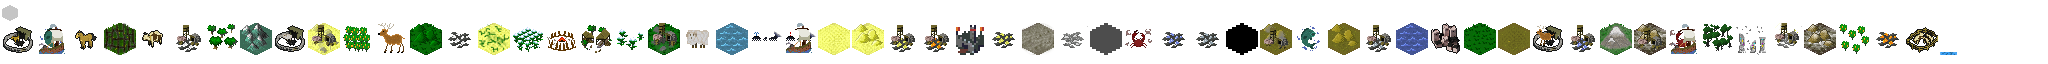
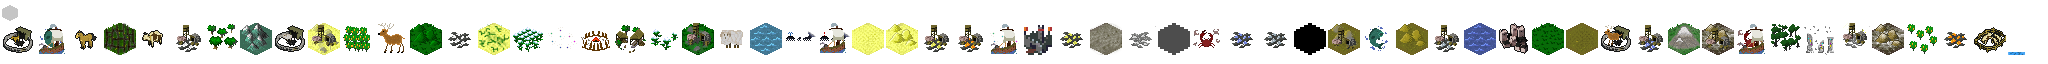
GameMap: Implement pearls tile

Changed region(s): [[0.25, 0.3438, 1.0, 0.875]]

diff --git a/server/src/main/java/me/rhin/openciv/server/game/map/tile/TileType.java b/server/src/main/java/me/rhin/openciv/server/game/map/tile/TileType.java
@@ -474,6 +474,25 @@ public enum TileType implements Comparable<TileType> {
 			return new TileType[] { TileType.SHALLOW_OCEAN };
 		}
 	},
+	PEARLS(TileLayer.MIDDLE, TileProperty.LUXURY, TileProperty.WATER) {
+		@Override
+		public StatLine getStatLine() {
+			StatLine statLine = new StatLine();
+			statLine.setValue(Stat.FOOD_GAIN, 1);
+			statLine.setValue(Stat.GOLD_GAIN, 2);
+			return statLine;
+		}
+
+		@Override
+		public List<TileImprovement> getImprovements() {
+			return Arrays.asList(new FarmOceanImprovement(TileType.PEARLS_IMPROVED));
+		}
+
+		@Override
+		public TileType[] getSpawnTileTypes() {
+			return new TileType[] { TileType.SHALLOW_OCEAN };
+		}
+	},
 	SILVER(TileLayer.MIDDLE, TileProperty.LUXURY) {
 		@Override
 		public StatLine getStatLine() {
@@ -567,6 +586,17 @@ public enum TileType implements Comparable<TileType> {
 		public StatLine getStatLine() {
 			StatLine statLine = new StatLine();
 			statLine.addValue(Stat.FOOD_GAIN, 2);
+			statLine.addValue(Stat.PRODUCTION_GAIN, 1);
+			statLine.addValue(Stat.MORALE_TILE, 10);
+			return statLine;
+		}
+	},
+	PEARLS_IMPROVED(TileLayer.MIDDLE, TileProperty.IMPROVEMENT, TileProperty.WATER) {
+		@Override
+		public StatLine getStatLine() {
+			StatLine statLine = new StatLine();
+			statLine.addValue(Stat.FOOD_GAIN, 1);
+			statLine.addValue(Stat.GOLD_GAIN, 3);
 			statLine.addValue(Stat.PRODUCTION_GAIN, 1);
 			statLine.addValue(Stat.MORALE_TILE, 10);
 			return statLine;

diff --git a/core/src/main/java/me/rhin/openciv/game/map/tile/TileType.java b/core/src/main/java/me/rhin/openciv/game/map/tile/TileType.java
@@ -39,6 +39,8 @@ public enum TileType {
 			TileProperty.OCEAN_FARMABLE),
 	WHALES(TextureEnum.TILE_WHALES, TileLayer.MIDDLE, TileProperty.RESOURCE, TileProperty.WATER,
 			TileProperty.OCEAN_FARMABLE),
+	PEARLS(TextureEnum.TILE_PEARLS, TileLayer.MIDDLE, TileProperty.RESOURCE, TileProperty.WATER,
+			TileProperty.OCEAN_FARMABLE),
 	SILVER(TextureEnum.TILE_SILVER, TileLayer.MIDDLE, TileProperty.RESOURCE, TileProperty.MINEABLE),
 	GOLD(TextureEnum.TILE_GOLD, TileLayer.MIDDLE, TileProperty.RESOURCE, TileProperty.MINEABLE),
 	FARM(TextureEnum.TILE_FARM, TileLayer.LOW, SoundEnum.FARM_TILL, TileProperty.IMPROVEMENT),
@@ -47,6 +49,7 @@ public enum TileType {
 	FISH_IMPROVED(TextureEnum.TILE_FISH_IMPROVED, TileLayer.MIDDLE, TileProperty.IMPROVEMENT, TileProperty.WATER),
 	CRABS_IMPROVED(TextureEnum.TILE_CRABS_IMPROVED, TileLayer.MIDDLE, TileProperty.IMPROVEMENT, TileProperty.WATER),
 	WHALES_IMPROVED(TextureEnum.TILE_WHALES_IMPROVED, TileLayer.MIDDLE, TileProperty.IMPROVEMENT, TileProperty.WATER),
+	PEARLS_IMPROVED(TextureEnum.TILE_PEARLS_IMPROVED, TileLayer.MIDDLE, TileProperty.IMPROVEMENT, TileProperty.WATER),
 	SILVER_IMPROVED(TextureEnum.TILE_SILVER_IMPROVED, TileLayer.MIDDLE, TileProperty.IMPROVEMENT),
 	GOLD_IMPROVED(TextureEnum.TILE_GOLD_IMPROVED, TileLayer.MIDDLE, TileProperty.IMPROVEMENT),
 	COTTON_IMPROVED(TextureEnum.TILE_COTTON_IMPROVED, TileLayer.MIDDLE, TileProperty.IMPROVEMENT),

diff --git a/core/src/main/java/me/rhin/openciv/asset/TextureEnum.java b/core/src/main/java/me/rhin/openciv/asset/TextureEnum.java
@@ -68,6 +68,8 @@ public enum TextureEnum {
 	TILE_ST_HELENS,
 	TILE_WHALES,
 	TILE_WHALES_IMPROVED,
+	TILE_PEARLS,
+	TILE_PEARLS_IMPROVED,
 	UNIT_SETTLER,
 	UNIT_WARRIOR,
 	UNIT_SCOUT,
